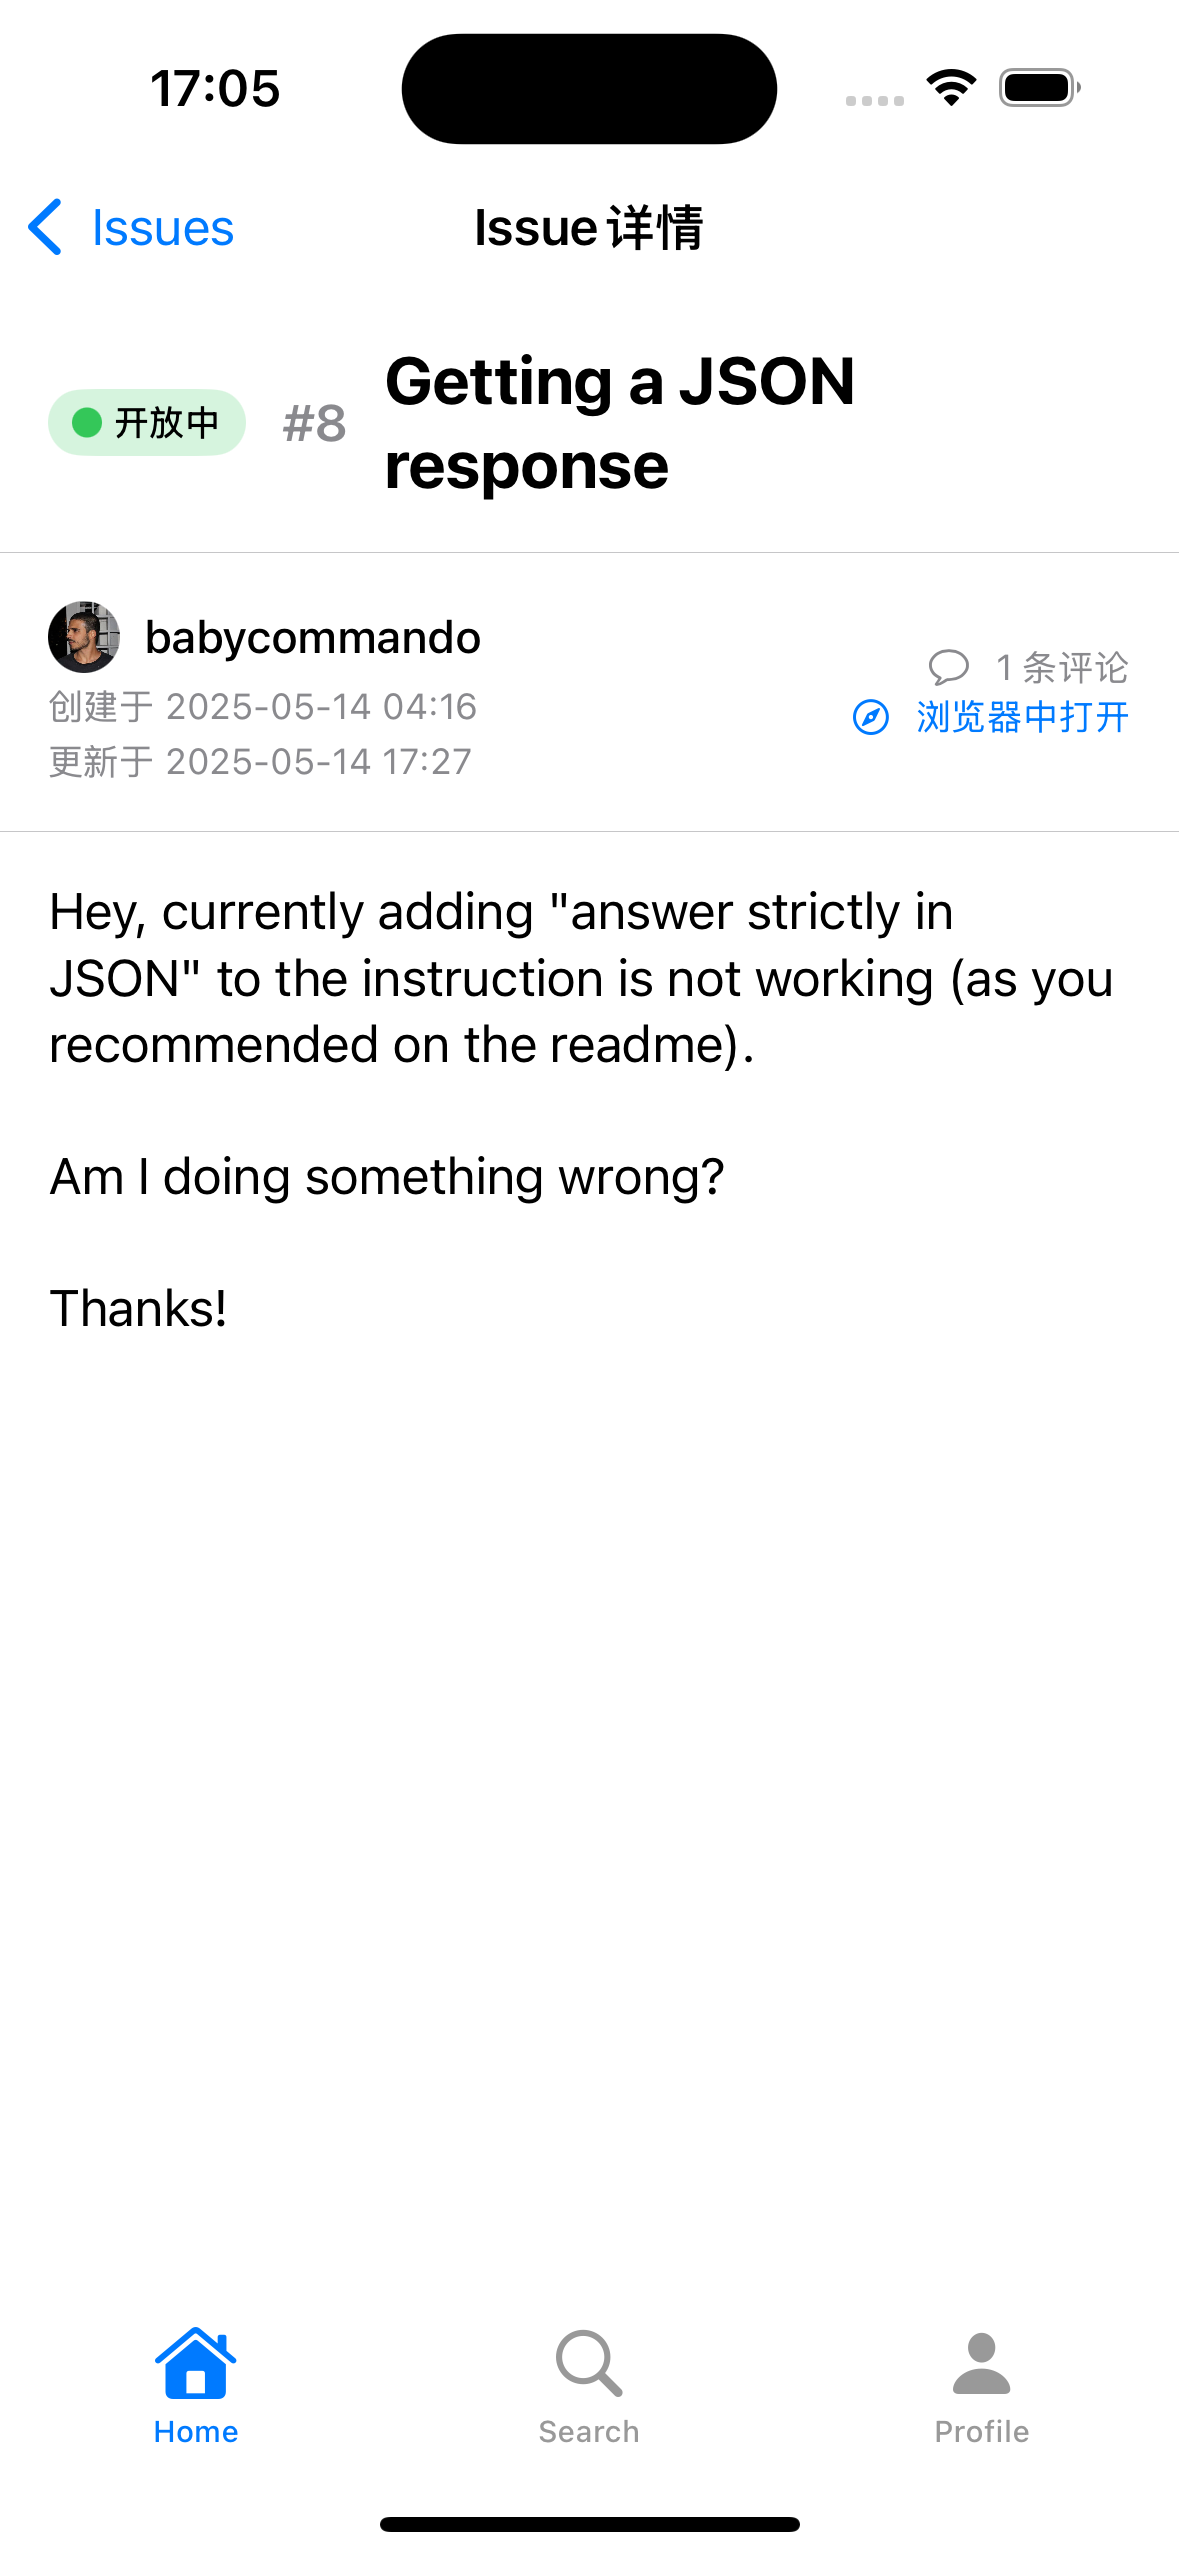
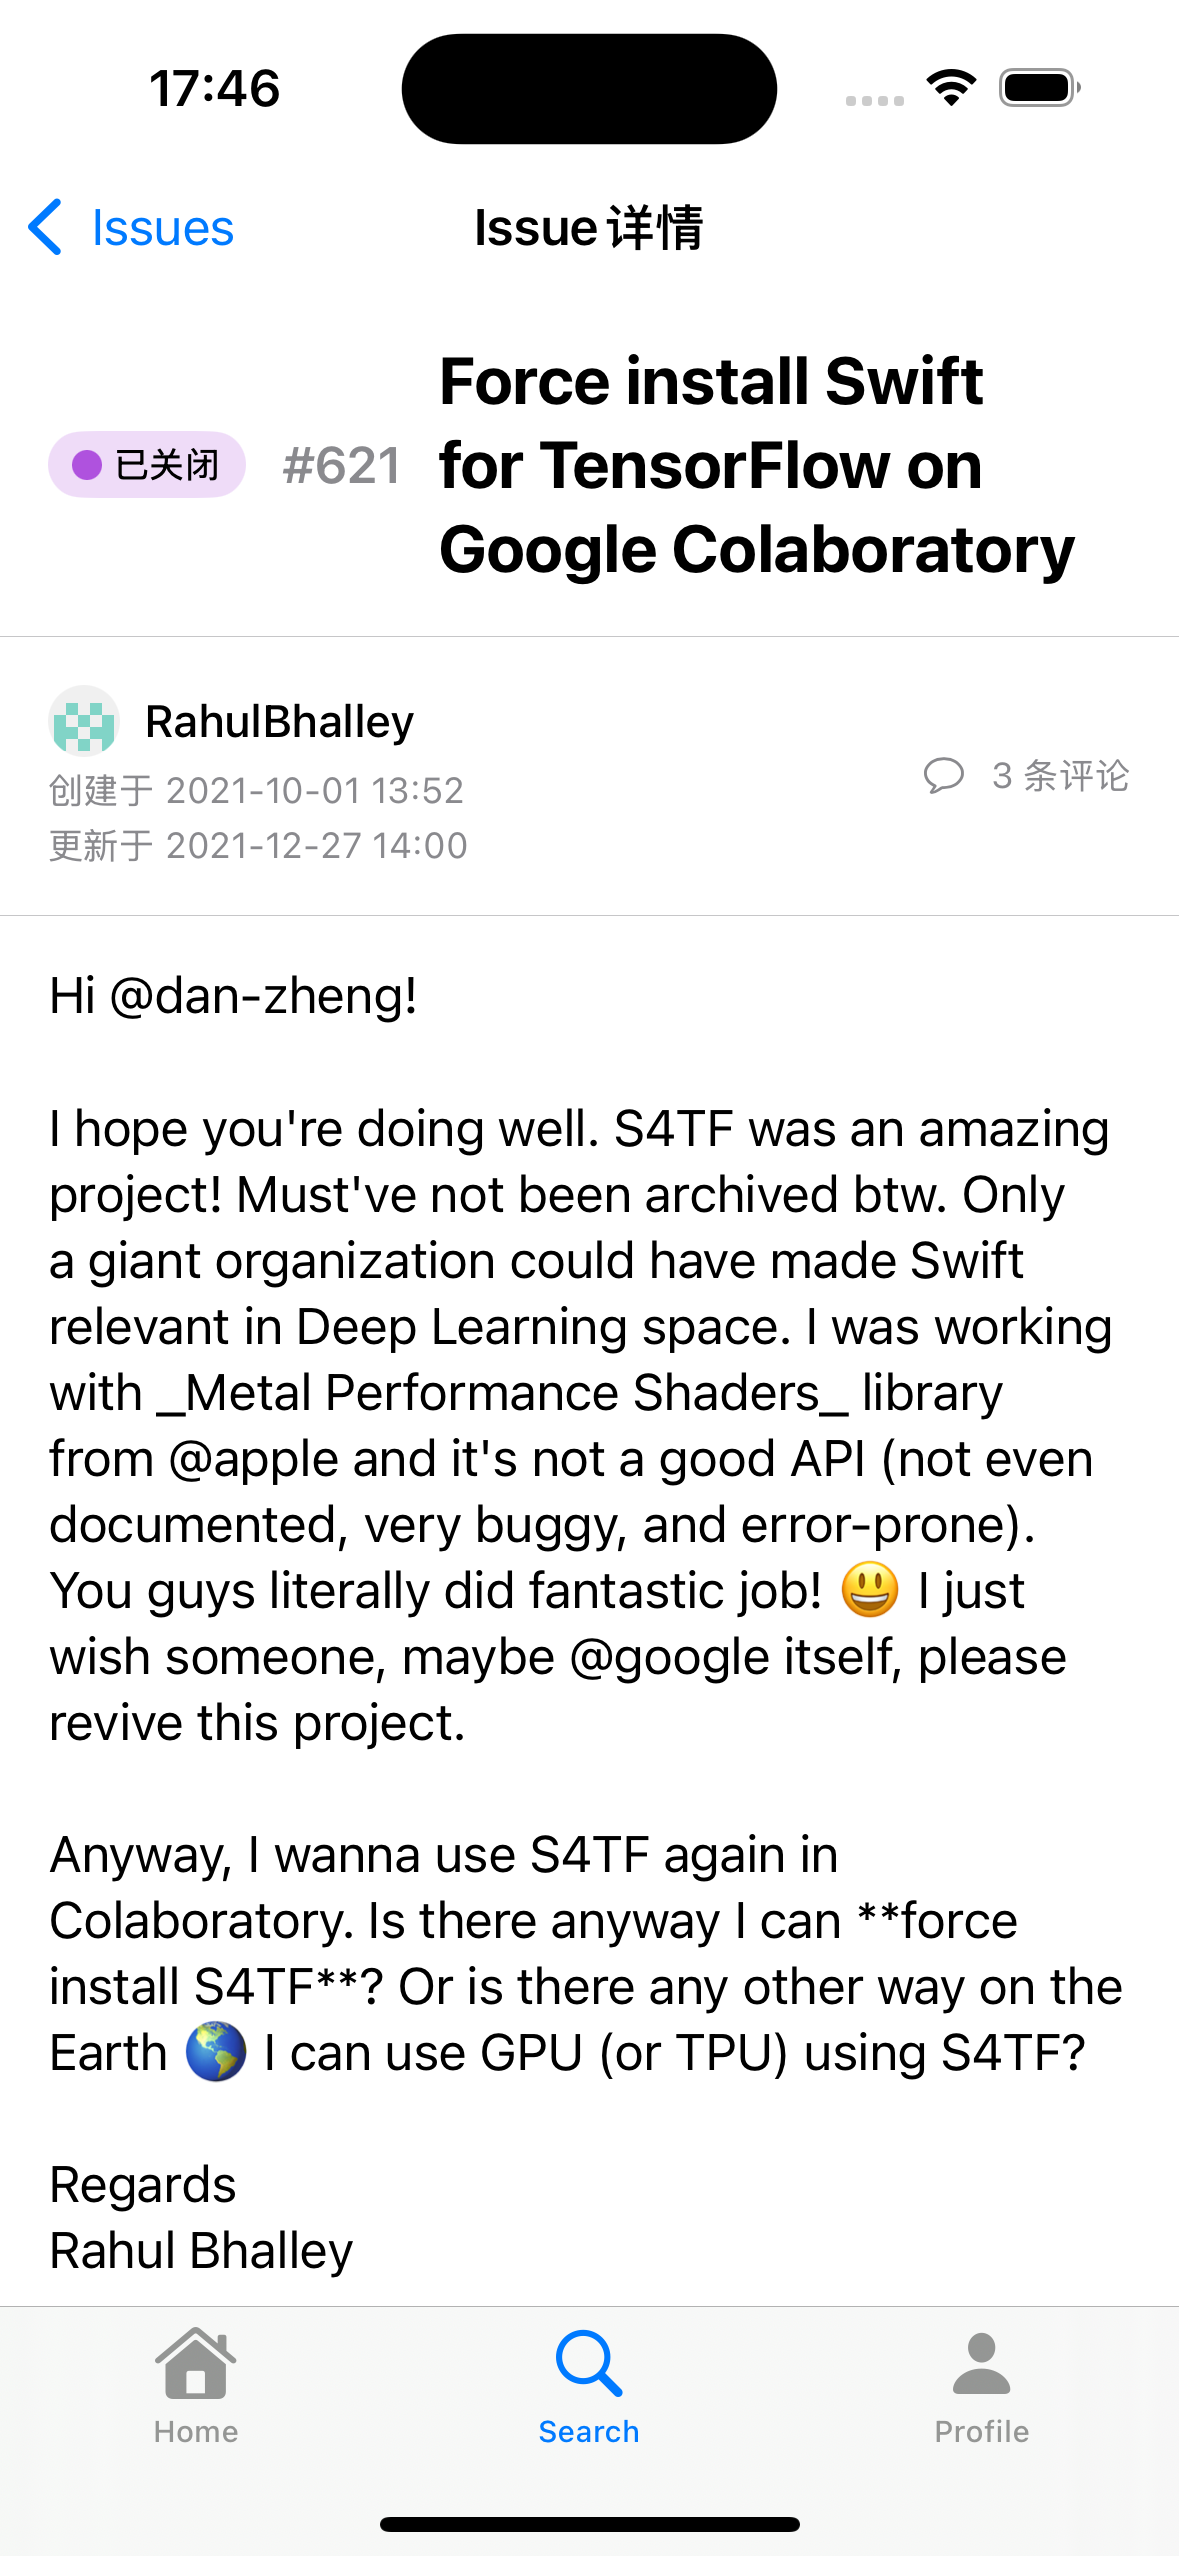
mod：change screenshots

diff --git a/GitHub/GitHub/Views/RepositoryDetailView.swift b/GitHub/GitHub/Views/RepositoryDetailView.swift
@@ -140,24 +140,6 @@ struct RepositoryDetailView: View {
                             }
                         }
                         .padding(.top, 8)
-                        
-                        // 在浏览器中打开链接按钮
-                        Button(action: {
-                            if let url = URL(string: repository.htmlUrl) {
-                                UIApplication.shared.open(url)
-                            }
-                        }) {
-                            HStack {
-                                Image(systemName: "safari")
-                                Text("在浏览器中打开")
-                            }
-                            .frame(maxWidth: .infinity)
-                            .padding()
-                            .background(Color.blue)
-                            .foregroundColor(.white)
-                            .cornerRadius(10)
-                        }
-                        .padding(.top, 8)
                     }
                     .padding()
                     .background(Color(.secondarySystemBackground))

diff --git a/GitHub/GitHub/Views/IssueDetailView.swift b/GitHub/GitHub/Views/IssueDetailView.swift
@@ -82,17 +82,6 @@ struct IssueDetailView: View {
                                 }
                                 .font(.caption)
                                 .foregroundColor(.secondary)
-                                
-                                Button(action: {
-                                    let url = URL(string: "https://github.com/\(owner)/\(repoName)/issues/\(issue.number)")!
-                                    UIApplication.shared.open(url)
-                                }) {
-                                    HStack {
-                                        Image(systemName: "safari")
-                                        Text("浏览器中打开")
-                                    }
-                                    .font(.caption)
-                                }
                             }
                         }
                         .padding(.horizontal)
